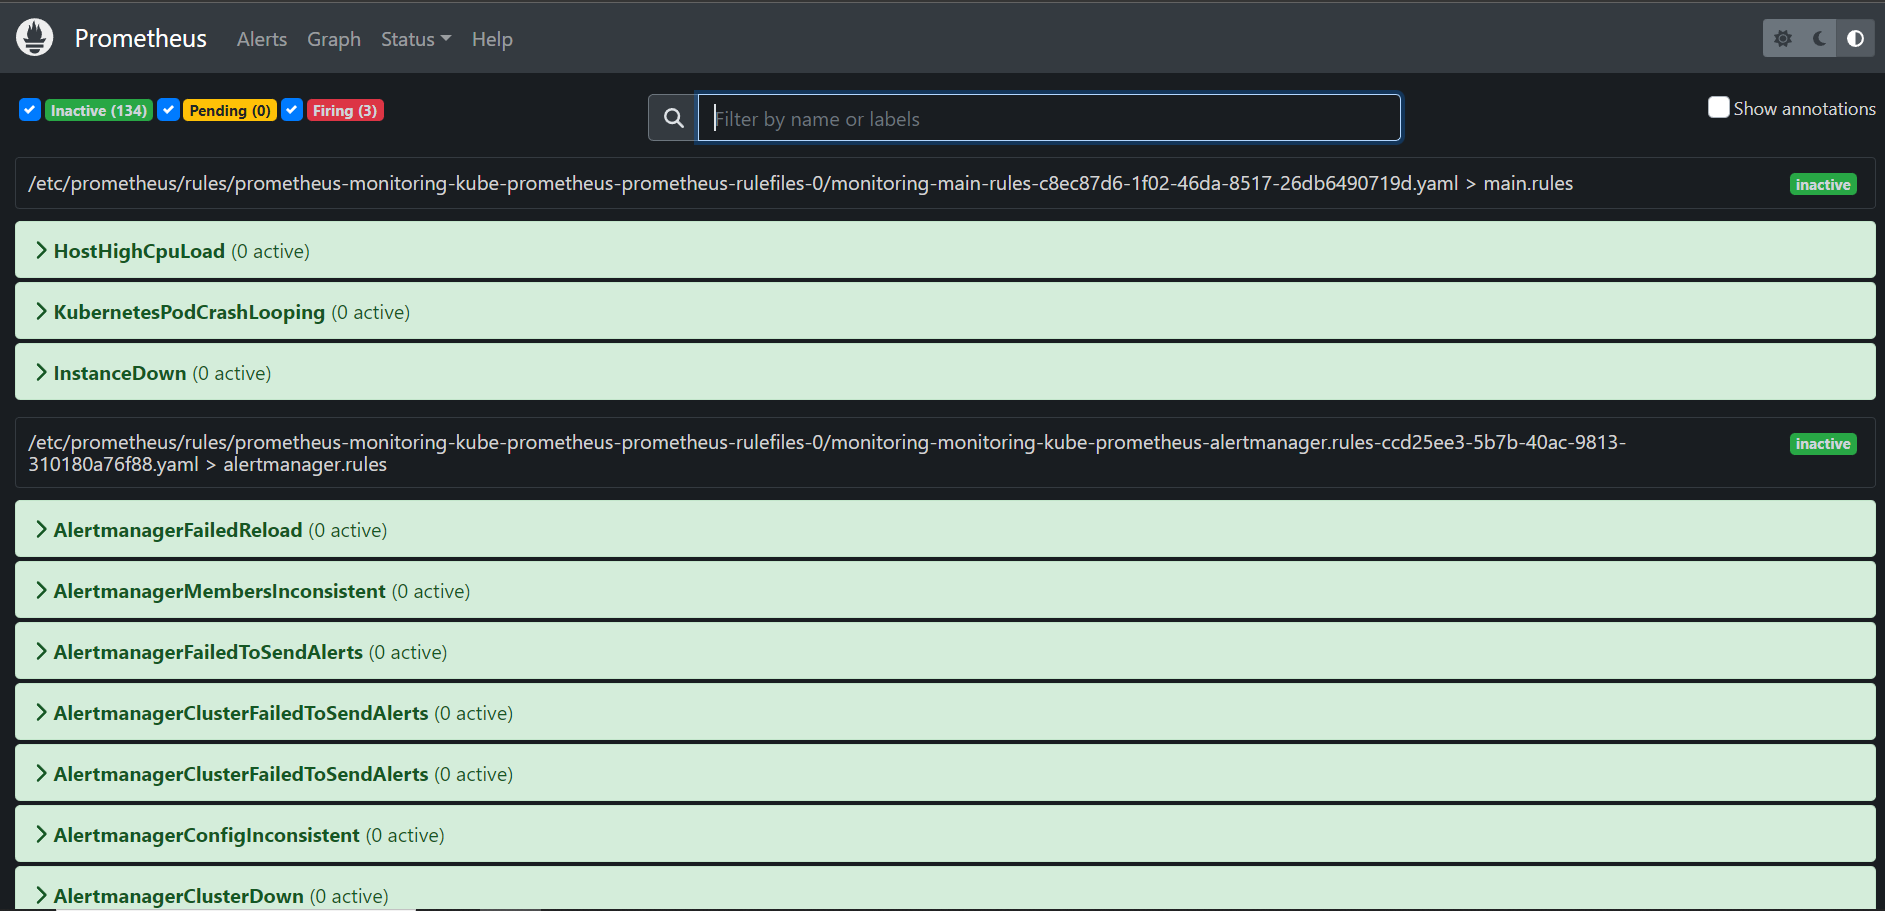
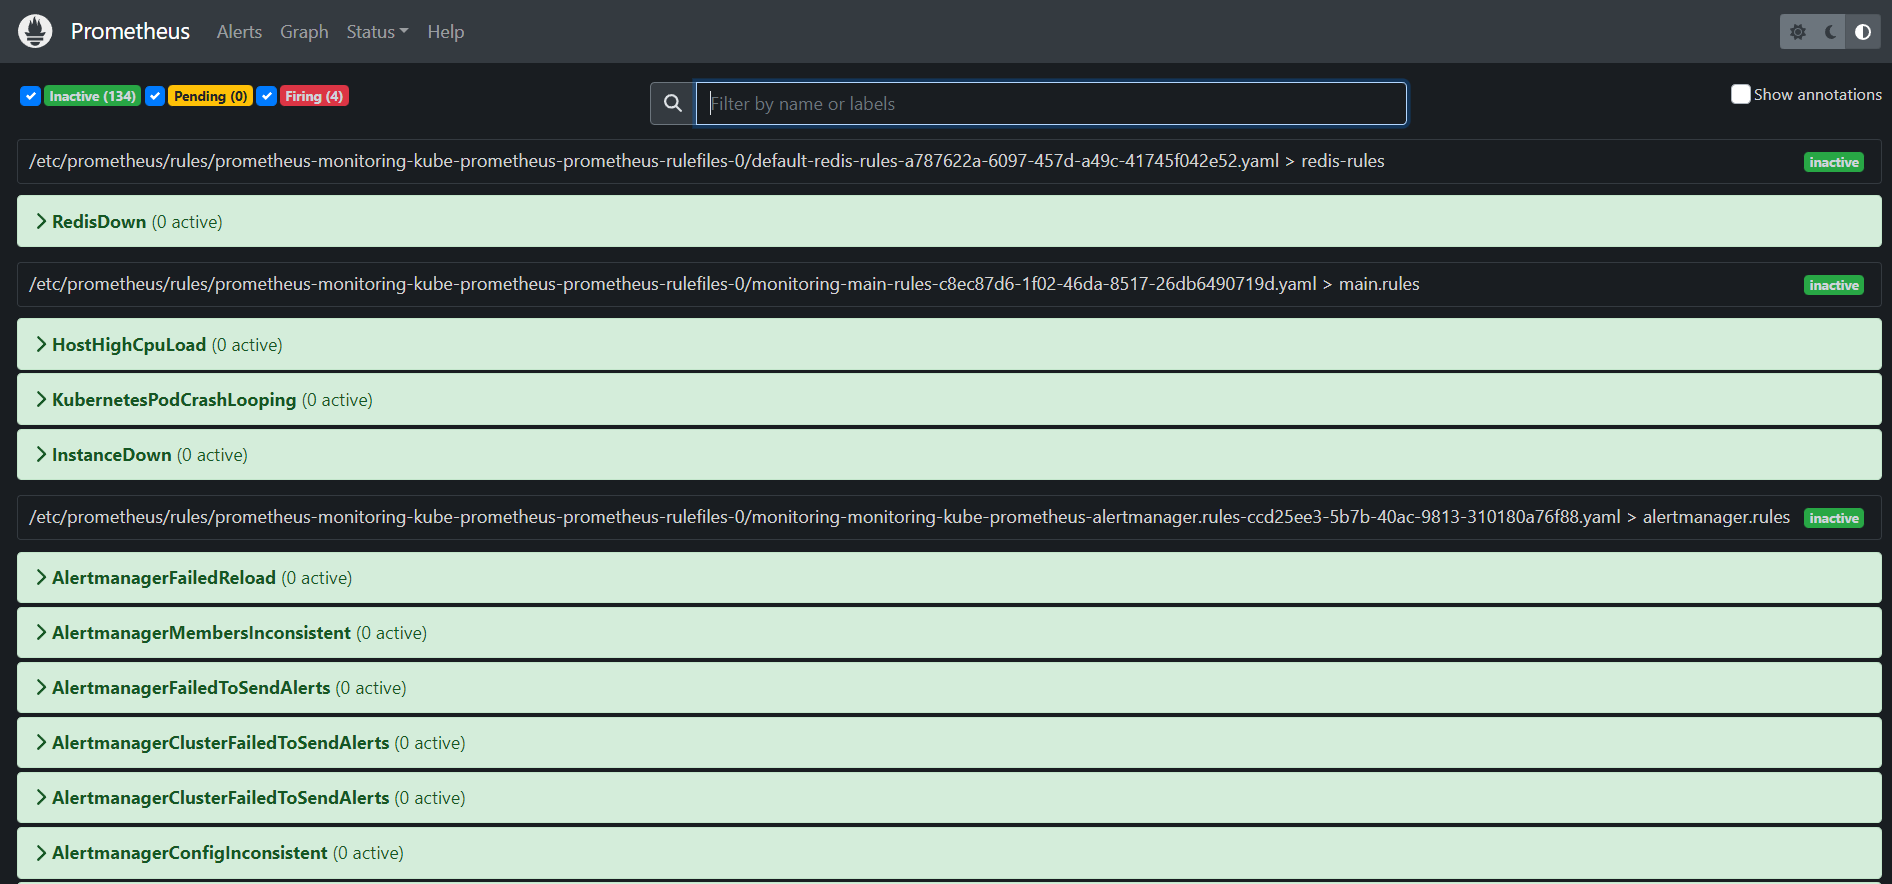
updata our readme files

diff --git a/Monitoring/README.md b/Monitoring/README.md
@@ -4,7 +4,7 @@
 
 **we utilize ArgoCD as the deployment tool for our Prometheus stack. This is achieved by utilizing the Helm chart implementation.** you can see the application file from **[kube-prometheus-stack](https://github.com/mmelmesary/DevOps-Project/blob/master/ArgoCD/app-of-apps/prometheus-stack.yaml)** in ArgoCD directory.
 
-### By default, this chart will deploy the following components:
+#### By default, this chart will deploy the following components:
 - Prometheus server
 - Alertmanager
 - Grafana
@@ -17,13 +17,13 @@
 ```bash
 kubectl get pods -n monitoring 
 ```
-
-### To access the prometheus UI
+## Step1: Accessing prometheus UI & grafana UI
+#### To access the prometheus UI
   ```bash
   kubectl -n monitoring port-forward svc/monitoring-kube-prometheus-prometheus  9090:9090
   ```
   ![prometheus](../images/Prometheus.PNG)    
-### To access the grafana UI
+#### To access the grafana UI
   ```bash
   kubectl -n monitoring port-forward svc/monitoring-grafana 3000:80
   ```
@@ -34,3 +34,23 @@ kubectl get pods -n monitoring
   kubectl get secret -n monitoring monitoring-grafana -o=jsonpath='{.data.admin-password}' | base64 -d
   ```
 ![prometheus](../images/grafana-dashboard.png)    
+
+## Step2: Creating custom roles 
+
+To monitor changes in our Kubernetes cluster and receive alerts through Slack, we will create custom rules using Prometheus and Alertmanager. 
+
+1. `rules.yaml` file
+
+```bash
+kubectl apply -f ./monitoring/rules.yaml
+```
+The rules in the file rules.yaml which we applied in the command above define `four` alerts: `PodCrashLoopBackOff`, `HighCPUUsage`, `HighMemoryUsage`, and `InstanceDown`. They use Prometheus metrics to monitor the state of pods, container resources and if instance goes down in our cluster.
+
+2. `redis-rules.yaml` file
+
+```bash
+kubectl apply -f ./monitoring/redis-rules.yaml
+```
+The rule in the file redis-rules.yaml which we applied in the command above define if the redis instance goes down, immediately firing the alert
+
+![prometheus](../images/Prometheus.PNG)   

diff --git a/Monitoring/notifications/README.md b/Monitoring/notifications/README.md
@@ -1,6 +1,12 @@
 # Setting up Prometheus Alertmanager with Slack
 > setting up Prometheus Alertmanager to send notifications to a slack channel 
 
+**We will configure alertmanager to send notifications if:**
+- If any instacnce has more cpu than 50%
+- If any node goes down
+- If any pod restarts more than 4 times
+- If redis service goes down
+
 **First create these two files**
 
 ```bash
